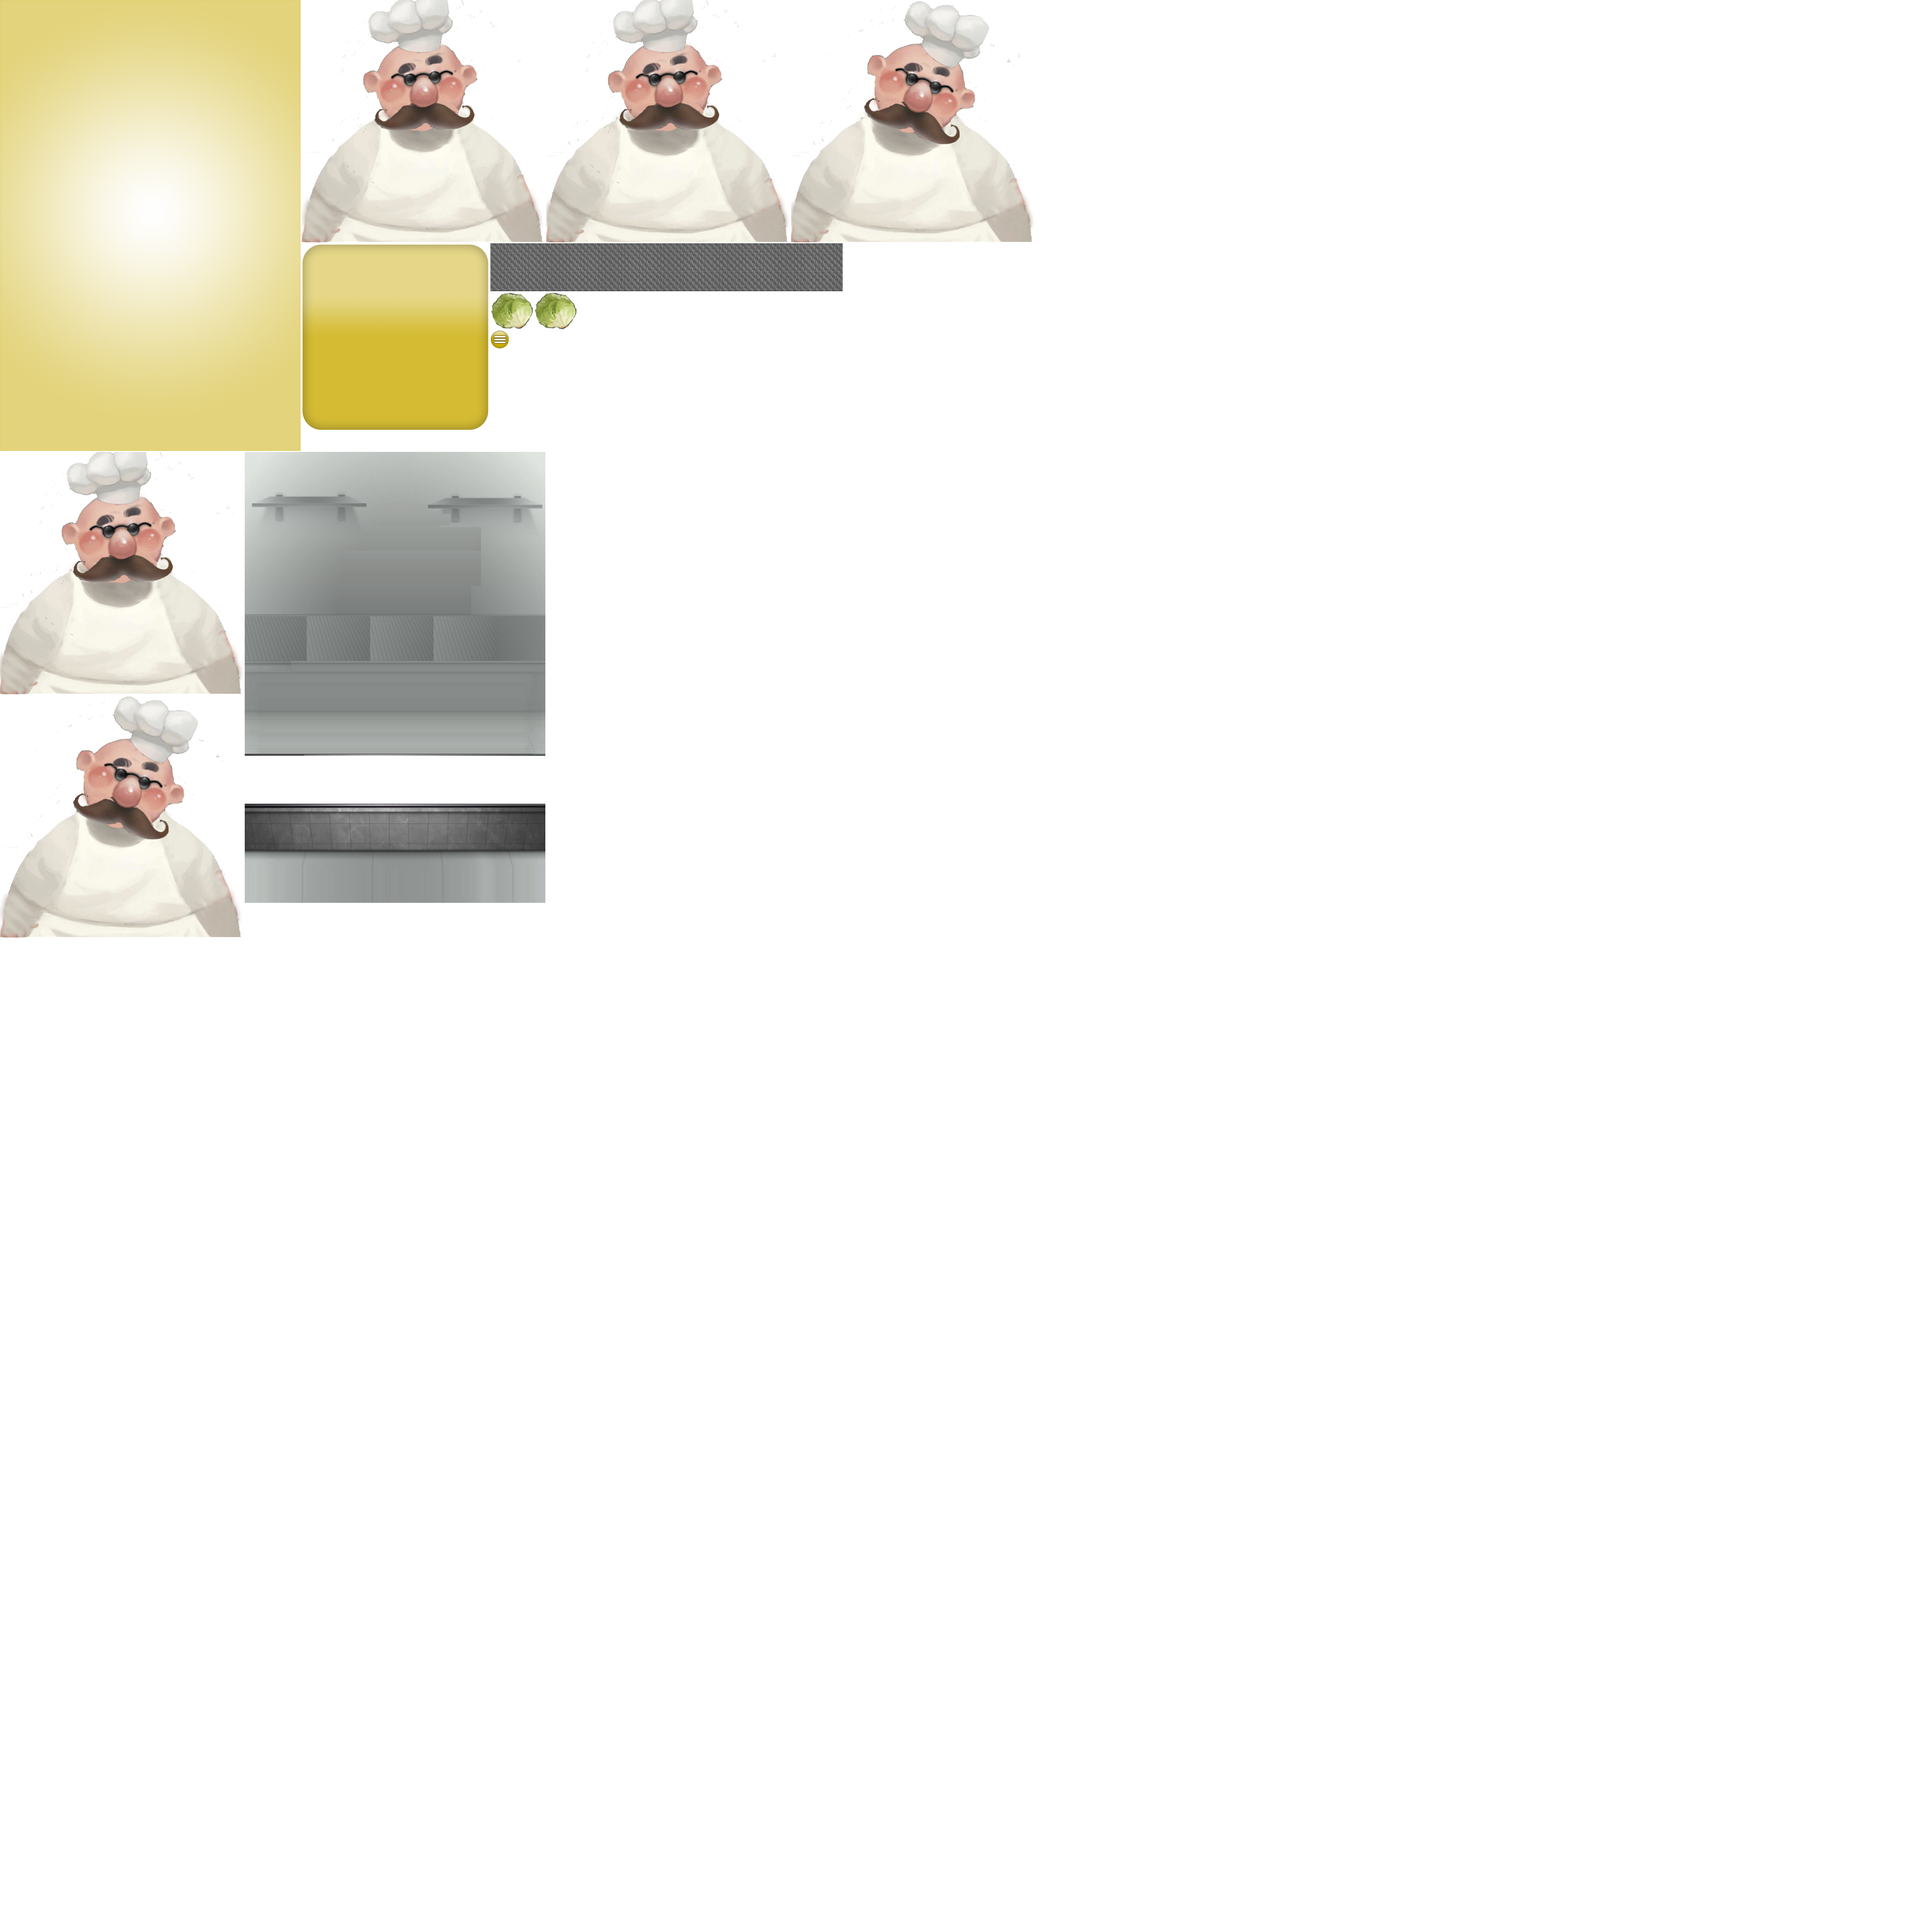
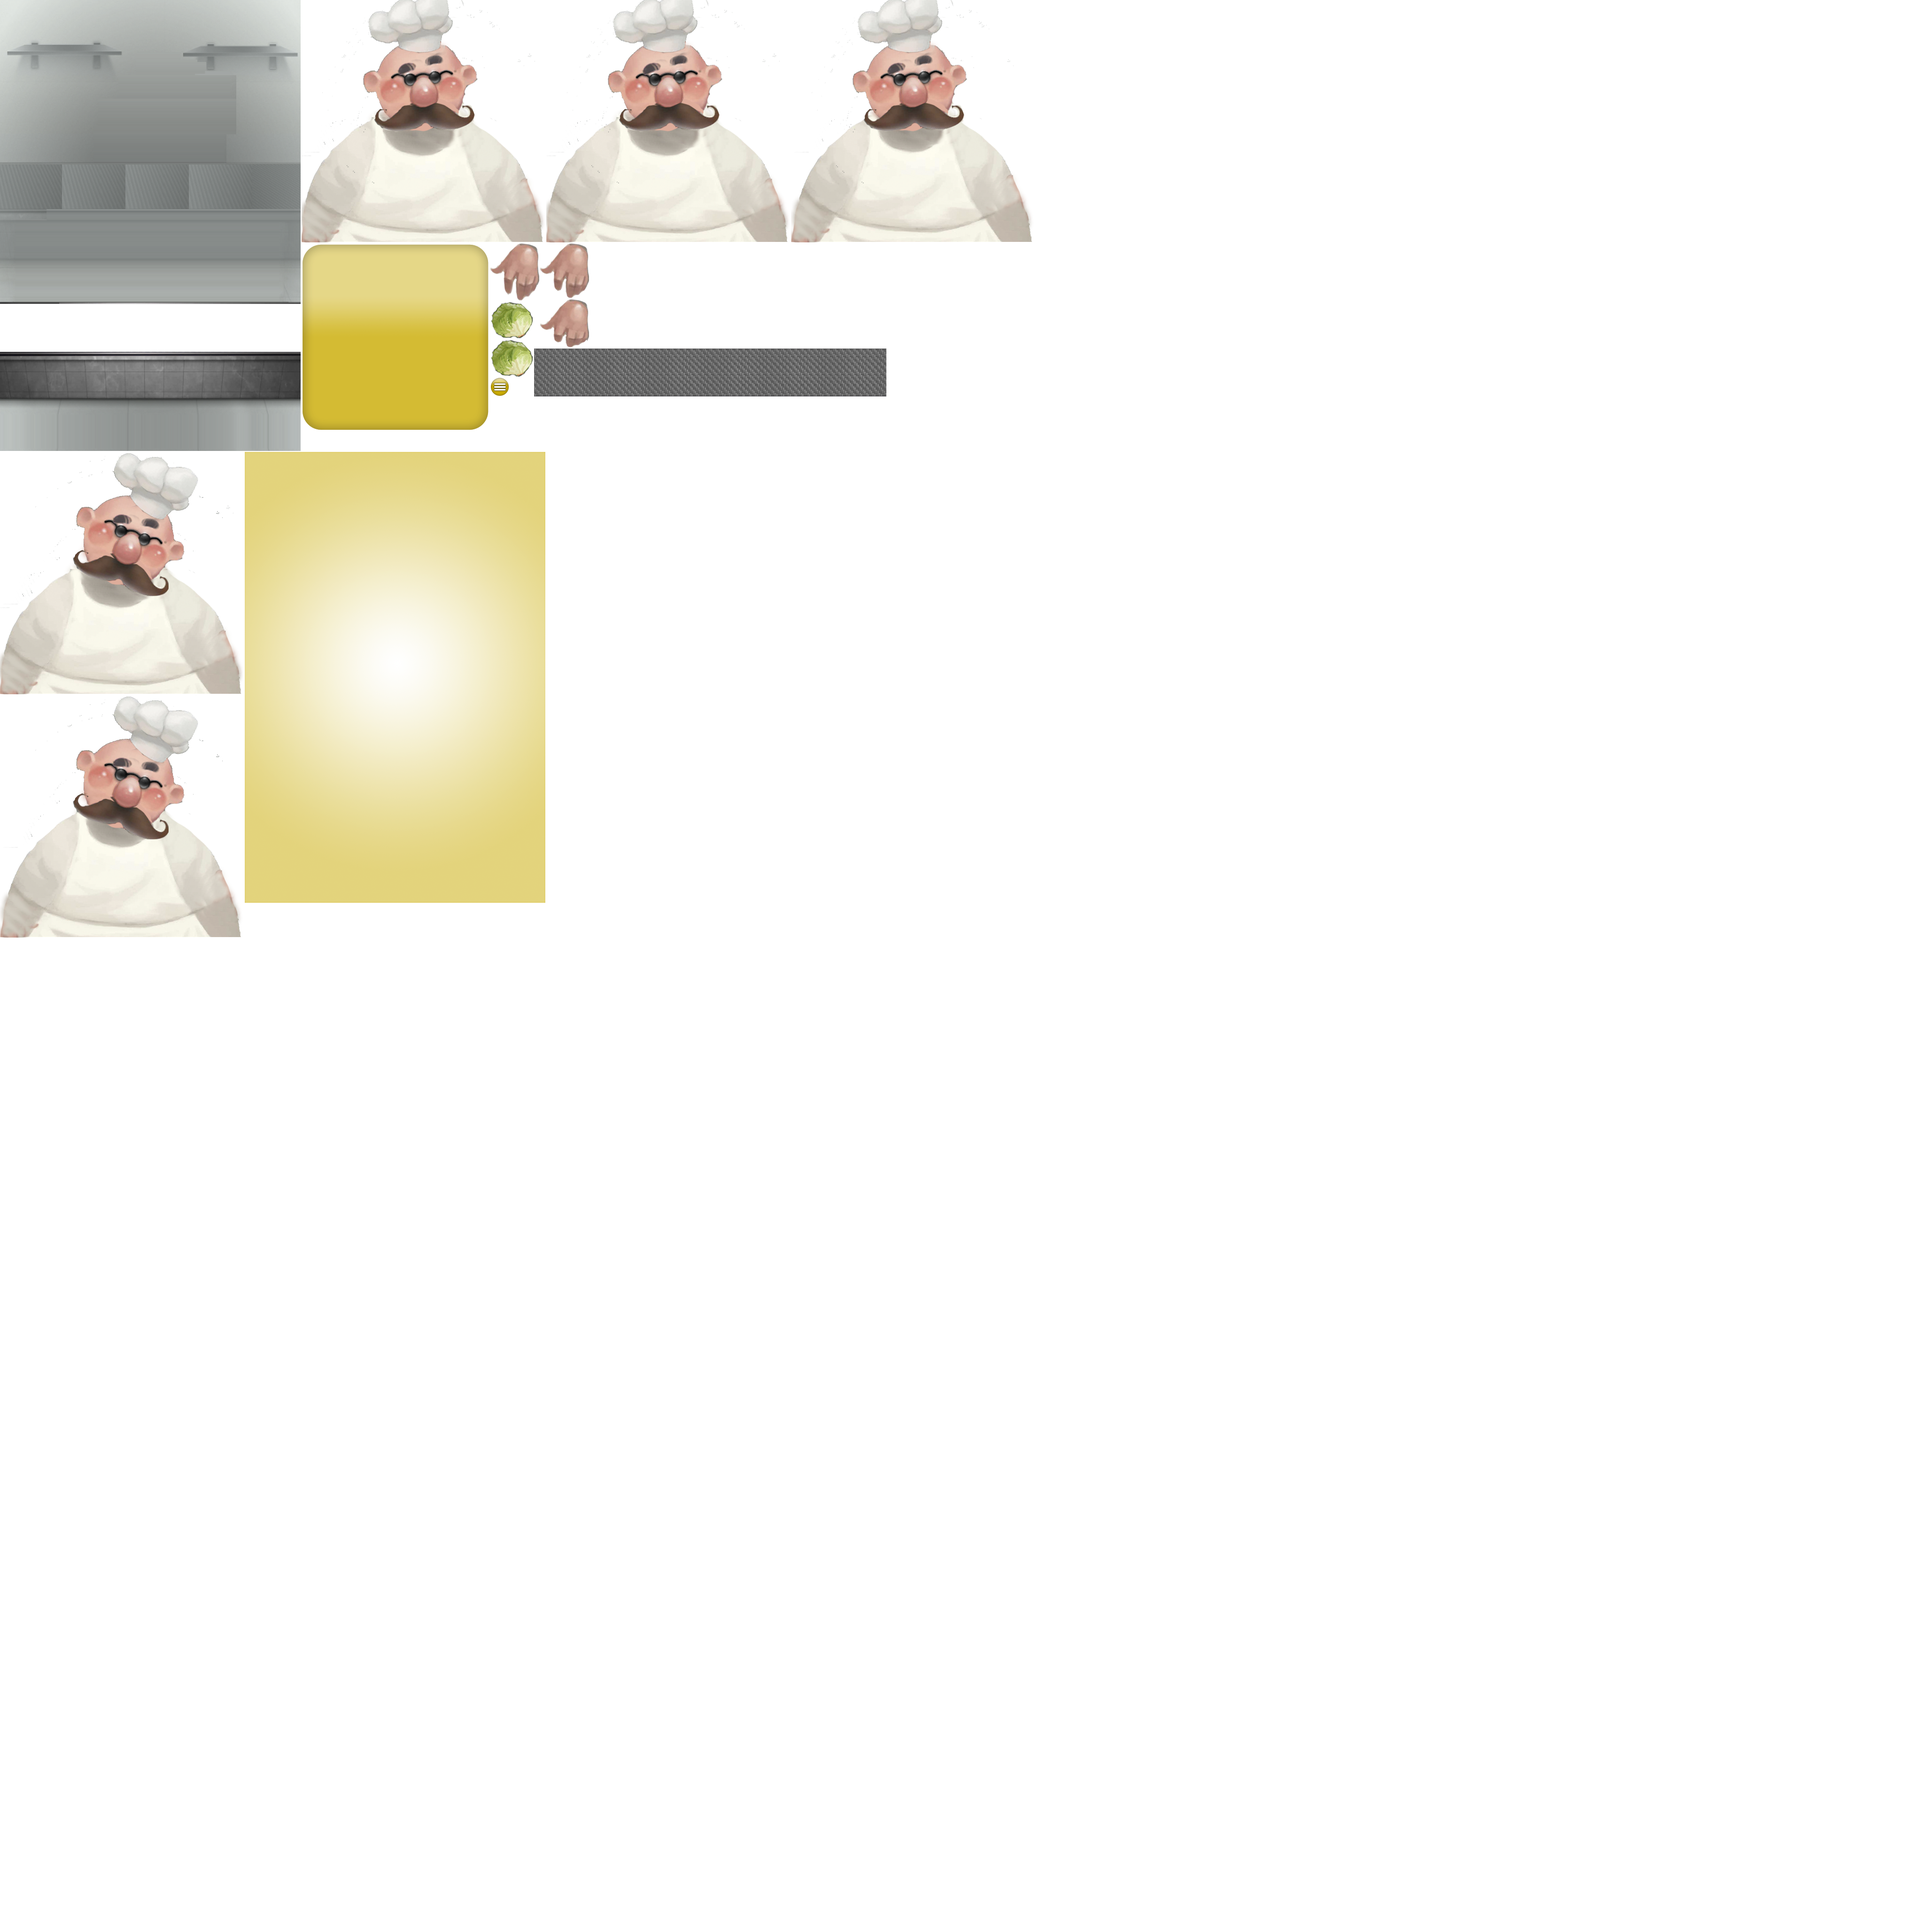
Hands added;

Changed region(s): [[0.0, 0.0, 0.4688, 0.4688], [0.4375, 0.0, 0.5312, 0.0938]]

diff --git a/common/ui/objects/hand/Hands.cpp b/common/ui/objects/hand/Hands.cpp
@@ -1,0 +1,39 @@
+
+#include "Hands.h"
+
+USING_NS_CC;
+
+Hands* Hands::create(float dist)
+{
+    Hands *pRet = new Hands();
+    if (pRet && pRet->init(dist))
+    {
+        pRet->autorelease();
+        return pRet;
+    }
+    else
+    {
+        delete pRet;
+        pRet = NULL;
+        return NULL;
+    }
+}
+
+bool Hands::init(float dist) {
+    
+    if(!super::init()) {
+        return false;
+    }
+    
+    leftHand = Hand::create();
+    leftHand->setPosition(Vec2(leftHand->getPosition().x + dist - 50, leftHand->getPosition().y + 100));
+    this->addChild(leftHand, 2);
+    
+    rightHand = Hand::create();
+    rightHand->mirrorImg();
+    rightHand->setPosition(Vec2(rightHand->getPosition().x + 50, rightHand->getPosition().y + 100));
+    this->addChild(rightHand, 2);
+    
+    
+    return true;
+}

diff --git a/common/ui/objects/hand/Hand.cpp b/common/ui/objects/hand/Hand.cpp
@@ -1,0 +1,37 @@
+
+#include "Hand.h"
+
+USING_NS_CC;
+
+Hand* Hand::create()
+{
+    Hand *pRet = new Hand();
+    if (pRet && pRet->init())
+    {
+        pRet->autorelease();
+        return pRet;
+    }
+    else
+    {
+        delete pRet;
+        pRet = NULL;
+        return NULL;
+    }
+}
+
+bool Hand::init() {
+    
+    if(!super::init()) {
+        return false;
+    }
+    
+    handImg = Sprite::createWithSpriteFrameName("hand_left_1.png");
+    this->addChild(handImg, 0);
+    
+    
+    return true;
+}
+
+void Hand::mirrorImg() {
+    handImg->setFlippedX(true);
+}

diff --git a/common/ui/menu/GameMenu.cpp b/common/ui/menu/GameMenu.cpp
@@ -54,6 +54,10 @@ void GameMenu::initializeMenu() {
     chef->setPosition(Vec2(chef->getPosition().x + 50, 315)); //TODO: remove x position
     this->addChild(chef, 0);
     
+    hands = Hands::create(chef->getContentSize().width);
+    hands->setPosition(Vec2(chef->getPosition().x, chef->getPosition().y));
+    this->addChild(hands, 2);
+    
     
     conv = Conveyor::create();
     conv->setPosition(Vec2(0, 315));

diff --git a/common/ui/objects/hand/Hands.h b/common/ui/objects/hand/Hands.h
@@ -1,0 +1,19 @@
+
+#ifndef __BlindChef__Hands__
+#define __BlindChef__Hands__
+
+#include "cocos2d.h"
+#include "Hand.h"
+
+class Hands : public cocos2d::Layer {
+private:
+    typedef Layer super;
+    Hand *leftHand;
+    Hand *rightHand;
+public:
+    static Hands* create(float dist);
+    
+    bool init(float dist);
+};
+
+#endif /* defined(__BlindChef__Hands__) */

diff --git a/common/ui/objects/hand/Hand.h b/common/ui/objects/hand/Hand.h
@@ -1,0 +1,19 @@
+
+#ifndef __BlindChef__Hand__
+#define __BlindChef__Hand__
+
+#include "cocos2d.h"
+
+class Hand : public cocos2d::Layer {
+private:
+    typedef Layer super;
+    cocos2d::Sprite* handImg;
+public:
+    static Hand* create();
+    
+    bool init();
+    
+    void mirrorImg();
+};
+
+#endif /* defined(__BlindChef__Hand__) */

diff --git a/common/ui/menu/GameMenu.h b/common/ui/menu/GameMenu.h
@@ -5,6 +5,7 @@
 #include "cocos2d.h"
 #include "SimpleMenu.h"
 #include "Conveyor.h"
+#include "Hands.h"
 
 class GameMenu : public SimpleMenu
 {
@@ -18,6 +19,7 @@ private:
     cocos2d::Vec2 origin;
     
     Conveyor* conv;
+    Hands* hands;
     
     float lastCreatedItem;
     int nextItemDt;
